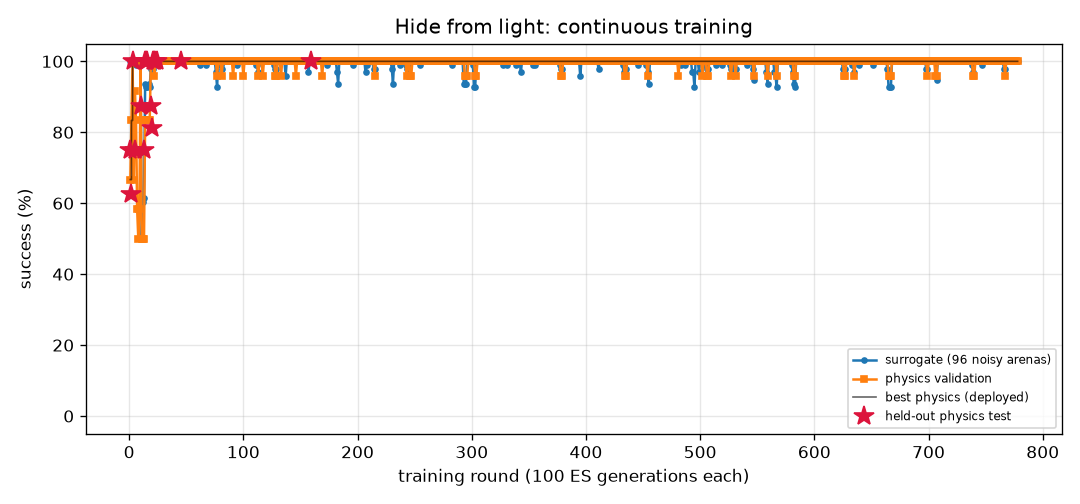
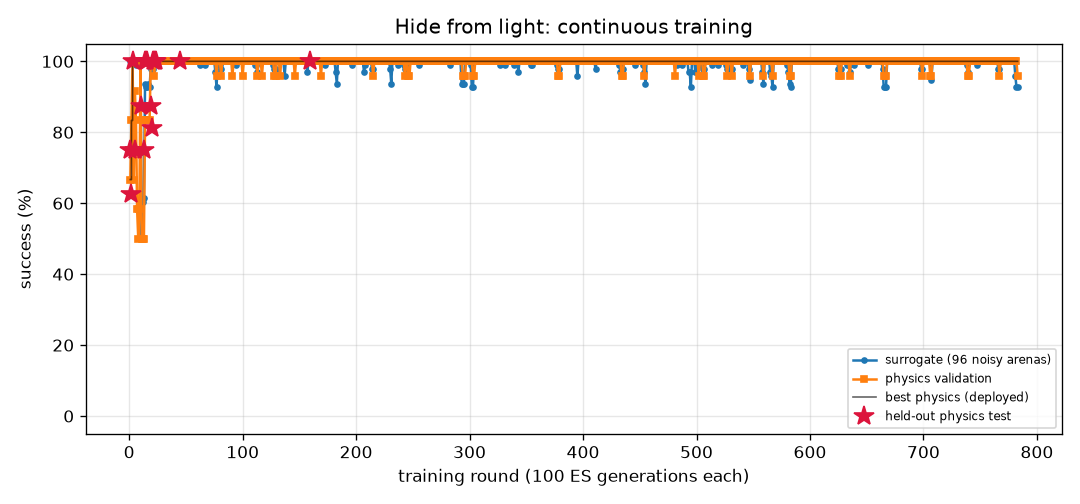
FlyLab: continuous training progress
- walk_forward: optimal, physics val 100% of 24, round 479
- turn: optimal, physics val 100% of 24, round 1252
- goto: optimal, physics val 100% of 24, round 372
- odor_seek: optimal, physics val 100% of 24, round 298
- odor_avoid: optimal, physics val 100% of 24, round 1067
- light_seek: optimal, physics val 100% of 24, round 575
- light_avoid: optimal, physics val 100% of 24, round 783

diff --git a/projects/09_flylab/training/light_avoid/REPORT.md b/projects/09_flylab/training/light_avoid/REPORT.md
@@ -1,14 +1,14 @@
 # Hide from light (`light_avoid`) — training report
 
-*Auto-generated by `train_brains.py`, last updated 2026-11-21T19:55:05.*
+*Auto-generated by `train_brains.py`, last updated 2026-11-21T20:36:26.*
 
 ![curve](curve.png)
 
 | | |
 |---|---|
-| rounds | 778 |
-| ES generations | 77800 |
-| physics runs | 18944 |
+| rounds | 783 |
+| ES generations | 78300 |
+| physics runs | 19064 |
 | status | **optimal** |
 | best brain | round 159: physics validation **100%** on 24 arenas, surrogate 100% |
 | held-out physics test | **100%** on 32 unseen arenas (95% CI 89%-100%) (errors: [14.4, 56.1, 58.0, 57.9, 57.5, 14.0, 14.4, 56.6, 56.8, 13.3, 14.1, 56.6, 57.6, 13.1, 57.3, 55.9, 57.2, 55.0, 55.2, 53.9, 55.2, 12.4, 53.8, 53.7, 14.1, 13.7, 55.0, 57.8, 56.2, 13.1, 52.8, 56.5]) |
@@ -17,11 +17,6 @@ Physics error per arena: mm gained away from source (> 6 without first approachi
 
 | round | level | gens | sigma | surrogate | physics val | val errors | test | note |
 |---:|---:|---:|---:|---:|---:|---|---:|---|
-| 739 | 3 | 73900 | 0.025 | 97% | 96% | [42.0, 40.6, 41.0, 42.4, 35.6, 41.8, 42.4, 14.5, 13.0, 13.4, 10.2, 34.5, 14.4, 7.9, 40.6, 42.4, 14.2, 37.0, 39.4, 14.4, 42.4, 11.3, 41.8, 34.2] |  | restart from best |
-| 740 | 3 | 74000 | 0.024 | 100% | 96% | [47.4, 49.8, 49.2, 48.2, 51.9, 47.9, 46.7, 14.5, 43.2, 13.3, 52.1, 51.9, 14.4, 51.2, 49.5, 47.7, 14.2, 52.0, 49.4, 14.4, 47.6, 51.9, 47.5, 51.7] |  |  |
-| 741 | 3 | 74100 | 0.024 | 100% | 100% | [51.5, 54.8, 54.4, 53.0, 56.8, 53.0, 52.4, 14.5, 53.4, 13.4, 56.6, 56.9, 14.4, 55.4, 54.2, 51.9, 14.2, 56.8, 55.0, 14.4, 54.2, 56.4, 52.9, 56.6] |  |  |
-| 742 | 3 | 74200 | 0.024 | 100% | 100% | [51.2, 53.1, 52.7, 52.7, 55.9, 51.5, 50.6, 14.5, 52.5, 13.5, 55.9, 55.8, 14.4, 54.7, 52.5, 51.1, 14.2, 55.8, 53.2, 14.4, 51.2, 55.8, 50.4, 55.8] |  |  |
-| 743 | 3 | 74300 | 0.024 | 100% | 100% | [46.5, 47.4, 47.2, 48.0, 51.2, 46.3, 44.8, 14.5, 48.9, 13.0, 49.4, 51.1, 14.4, 51.2, 46.7, 47.1, 14.2, 50.8, 47.3, 14.4, 44.9, 50.1, 45.1, 51.4] |  | restart from best |
 | 744 | 3 | 74400 | 0.024 | 100% | 100% | [43.0, 47.1, 45.6, 45.7, 47.8, 46.2, 43.9, 14.5, 46.7, 11.9, 48.7, 47.9, 14.4, 47.7, 47.1, 44.8, 14.2, 48.2, 46.0, 14.4, 45.9, 49.1, 44.5, 48.1] |  |  |
 | 745 | 3 | 74500 | 0.024 | 100% | 100% | [46.3, 47.8, 47.5, 48.1, 50.9, 47.2, 45.3, 14.5, 50.8, 13.2, 51.4, 51.1, 14.3, 50.4, 47.0, 47.0, 14.2, 51.0, 47.3, 14.4, 45.2, 51.2, 45.6, 51.3] |  |  |
 | 746 | 3 | 74600 | 0.024 | 100% | 100% | [57.5, 59.9, 59.8, 57.2, 57.6, 57.1, 58.8, 14.5, 46.0, 13.5, 57.1, 57.4, 14.3, 58.5, 59.8, 56.3, 14.2, 58.6, 59.6, 14.4, 57.4, 58.6, 58.5, 56.5] |  |  |
@@ -57,3 +52,8 @@ Physics error per arena: mm gained away from source (> 6 without first approachi
 | 776 | 3 | 77600 | 0.024 | 100% | 100% | [53.3, 57.9, 57.7, 55.6, 57.3, 54.7, 56.4, 14.5, 51.4, 13.5, 57.0, 57.1, 14.4, 55.4, 57.8, 53.4, 14.2, 57.7, 58.2, 14.4, 54.5, 57.2, 56.0, 56.5] |  |  |
 | 777 | 3 | 77700 | 0.024 | 100% | 100% | [58.2, 62.1, 61.9, 59.2, 60.8, 59.2, 60.9, 14.5, 56.8, 13.5, 60.9, 60.4, 14.4, 58.2, 62.1, 57.8, 14.2, 61.2, 62.3, 14.4, 59.4, 61.0, 60.7, 59.8] |  |  |
 | 778 | 3 | 77800 | 0.024 | 100% | 100% | [56.2, 61.4, 61.2, 57.1, 61.0, 57.9, 59.6, 14.5, 44.4, 13.3, 59.9, 60.8, 14.4, 58.1, 61.3, 58.4, 14.2, 61.5, 61.7, 14.4, 57.8, 60.1, 59.5, 60.2] |  |  |
+| 779 | 3 | 77900 | 0.024 | 100% | 100% | [54.8, 59.7, 59.4, 55.5, 60.5, 56.3, 58.1, 14.5, 54.8, 13.3, 59.5, 60.3, 14.4, 57.4, 59.5, 54.9, 14.2, 60.8, 60.0, 14.4, 56.9, 59.4, 57.6, 59.9] |  | restart from best |
+| 780 | 3 | 78000 | 0.024 | 100% | 100% | [44.4, 44.2, 41.3, 41.5, 46.4, 42.7, 39.3, 14.5, 43.6, 13.1, 45.4, 46.6, 14.4, 44.8, 43.1, 41.9, 14.2, 44.5, 41.4, 14.4, 40.2, 46.3, 40.9, 44.7] |  |  |
+| 781 | 3 | 78100 | 0.024 | 96% | 100% | [43.0, 53.0, 52.5, 42.9, 54.1, 49.6, 51.2, 14.5, 51.6, 13.6, 52.0, 54.2, 14.4, 53.4, 52.4, 8.9, 14.2, 54.2, 52.8, 14.4, 8.8, 52.9, 51.2, 53.9] |  |  |
+| 782 | 3 | 78200 | 0.026 | 93% | 100% | [6.3, 59.6, 59.4, 7.5, 59.9, 46.2, 57.9, 14.5, 57.0, 13.5, 56.8, 59.9, 14.4, 58.1, 59.5, 9.0, 14.2, 60.3, 59.8, 14.4, 8.7, 58.3, 57.5, 59.4] |  |  |
+| 783 | 3 | 78300 | 0.028 | 93% | 96% | [6.2, 59.7, 59.4, 7.3, 59.8, 4.4, 57.9, 14.5, 55.2, 13.3, 56.5, 59.7, 14.4, 58.3, 59.6, 9.0, 14.2, 60.2, 60.1, 14.4, 8.7, 57.1, 57.8, 59.1] |  | restart from best |

diff --git a/projects/09_flylab/training/light_seek/REPORT.md b/projects/09_flylab/training/light_seek/REPORT.md
@@ -1,14 +1,14 @@
 # Walk toward light (`light_seek`) — training report
 
-*Auto-generated by `train_brains.py`, last updated 2026-11-21T17:23:36.*
+*Auto-generated by `train_brains.py`, last updated 2026-11-21T20:50:30.*
 
 ![curve](curve.png)
 
 | | |
 |---|---|
-| rounds | 571 |
-| ES generations | 57100 |
-| physics runs | 10584 |
+| rounds | 575 |
+| ES generations | 57500 |
+| physics runs | 10680 |
 | status | **optimal** |
 | best brain | round 375: physics validation **100%** on 24 arenas, surrogate 100% |
 | held-out physics test | **100%** on 32 unseen arenas (95% CI 89%-100%) (errors: [0.57, 0.54, 0.53, 0.57, 0.55, 0.56, 0.59, 0.56, 0.53, 0.56, 0.71, 0.56, 0.55, 0.54, 0.53, 0.54, 0.54, 0.55, 0.52, 0.65, 0.64, 0.7, 0.58, 0.57, 0.6, 0.62, 0.55, 0.88, 0.54, 0.52, 0.62, 0.57]) |
@@ -17,10 +17,6 @@ Physics error per arena: mm from target at the end (< 1.5 and standing still = s
 
 | round | level | gens | sigma | surrogate | physics val | val errors | test | note |
 |---:|---:|---:|---:|---:|---:|---|---:|---|
-| 532 | 3 | 53200 | 0.024 | 100% | 92% | [1.72, 0.63, 0.6, 1.76, 0.56, 0.64, 0.78, 0.7, 0.59, 0.7, 0.75, 0.68, 0.71, 0.62, 0.7, 0.6, 0.58, 0.61, 0.6, 1.18, 0.64, 0.63, 0.62, 1.37] |  |  |
-| 533 | 3 | 53300 | 0.024 | 100% | 96% | [0.73, 0.71, 0.62, 1.16, 0.68, 0.81, 0.7, 0.81, 0.74, 0.86, 0.74, 0.64, 0.86, 0.68, 1.21, 0.6, 0.65, 0.95, 0.62, 0.97, 1.5, 1.38, 1.14, 0.57] |  |  |
-| 534 | 3 | 53400 | 0.024 | 100% | 96% | [0.73, 0.73, 1.69, 0.73, 0.75, 0.66, 0.7, 0.7, 0.68, 0.82, 0.55, 0.61, 0.75, 0.67, 0.75, 0.66, 0.8, 0.72, 0.72, 0.62, 0.66, 0.67, 0.7, 0.73] |  |  |
-| 535 | 3 | 53500 | 0.024 | 100% | 100% | [0.62, 0.66, 0.63, 0.68, 0.67, 0.61, 0.69, 0.63, 0.58, 0.65, 0.8, 0.64, 0.78, 0.72, 0.78, 0.74, 0.7, 0.59, 0.57, 0.63, 0.53, 0.8, 0.64, 0.63] |  | restart from best |
 | 536 | 3 | 53600 | 0.024 | 100% | 100% | [0.57, 0.53, 0.62, 0.51, 0.54, 0.83, 0.64, 0.81, 0.51, 0.51, 0.59, 0.66, 0.55, 0.61, 0.53, 0.56, 0.52, 0.65, 0.59, 0.82, 0.68, 0.63, 0.84, 0.82] |  |  |
 | 537 | 3 | 53700 | 0.024 | 100% | 88% | [0.58, 0.68, 0.98, 0.58, 0.64, 0.61, 0.74, 1.61, 1.1, 0.61, 1.48, 0.7, 0.58, 1.16, 1.01, 0.6, 0.62, 0.63, 0.59, 0.72, 0.76, 1.59, 0.76, 1.33] |  |  |
 | 538 | 3 | 53800 | 0.024 | 100% | 100% | [0.51, 0.62, 0.54, 0.61, 0.56, 0.55, 0.5, 0.53, 0.56, 0.55, 0.56, 0.56, 0.53, 0.56, 0.79, 0.58, 0.64, 0.56, 0.6, 0.63, 0.74, 0.52, 0.63, 0.69] |  |  |
@@ -57,3 +53,7 @@ Physics error per arena: mm from target at the end (< 1.5 and standing still = s
 | 569 | 3 | 56900 | 0.024 | 100% | 100% | [0.7, 0.63, 0.64, 0.59, 0.71, 0.6, 0.76, 0.65, 0.58, 0.77, 0.63, 0.67, 0.61, 0.63, 0.59, 0.8, 0.63, 0.6, 0.62, 0.61, 0.66, 0.69, 0.6, 0.66] |  |  |
 | 570 | 3 | 57000 | 0.024 | 100% | 100% | [0.72, 0.65, 0.61, 0.58, 0.55, 0.6, 0.67, 0.55, 0.58, 0.68, 0.65, 0.64, 0.59, 0.63, 0.69, 0.67, 0.55, 0.73, 0.59, 0.54, 0.69, 0.6, 0.54, 0.57] |  |  |
 | 571 | 3 | 57100 | 0.024 | 100% | 100% | [0.6, 0.55, 0.63, 0.63, 0.53, 0.57, 0.59, 0.51, 0.6, 0.51, 0.93, 0.6, 0.56, 0.97, 0.55, 0.59, 0.62, 0.59, 0.58, 0.55, 0.65, 0.59, 0.58, 0.62] |  | restart from best |
+| 572 | 3 | 57200 | 0.024 | 100% | 100% | [0.58, 0.59, 0.59, 0.62, 0.58, 0.6, 0.59, 0.6, 0.59, 0.6, 0.58, 0.65, 0.59, 0.61, 0.67, 0.61, 0.6, 0.61, 0.6, 0.59, 0.61, 0.62, 0.6, 0.62] |  |  |
+| 573 | 3 | 57300 | 0.024 | 100% | 100% | [0.57, 0.63, 0.51, 0.49, 0.5, 0.53, 0.58, 0.61, 0.54, 0.53, 1.08, 0.52, 0.55, 1.01, 0.6, 0.51, 0.46, 1.06, 0.46, 0.59, 0.61, 0.57, 0.48, 0.52] |  |  |
+| 574 | 3 | 57400 | 0.024 | 100% | 100% | [0.61, 0.6, 0.62, 0.79, 0.6, 0.68, 0.6, 0.65, 0.7, 0.63, 0.61, 0.58, 0.65, 0.59, 0.6, 0.58, 0.59, 0.64, 0.59, 0.64, 0.62, 0.71, 0.67, 0.67] |  |  |
+| 575 | 3 | 57500 | 0.024 | 100% | 100% | [0.72, 0.61, 0.53, 0.57, 0.56, 0.53, 0.51, 0.8, 0.54, 0.7, 0.67, 0.73, 0.51, 0.68, 0.55, 0.65, 0.53, 0.53, 0.64, 0.5, 0.63, 0.71, 0.58, 0.63] |  | restart from best |

diff --git a/projects/09_flylab/training/goto/REPORT.md b/projects/09_flylab/training/goto/REPORT.md
@@ -1,14 +1,14 @@
 # Go to a location (`goto`) — training report
 
-*Auto-generated by `train_brains.py`, last updated 2026-11-21T17:37:34.*
+*Auto-generated by `train_brains.py`, last updated 2026-11-21T20:51:29.*
 
 ![curve](curve.png)
 
 | | |
 |---|---|
-| rounds | 371 |
-| ES generations | 37100 |
-| physics runs | 8854 |
+| rounds | 372 |
+| ES generations | 37200 |
+| physics runs | 8878 |
 | status | **optimal** |
 | best brain | round 176: physics validation **100%** on 24 arenas, surrogate 100% |
 | held-out physics test | **100%** on 32 unseen arenas (95% CI 89%-100%) (errors: [0.2, 0.32, 0.19, 0.24, 0.18, 0.2, 0.19, 0.17, 0.22, 0.23, 0.23, 0.26, 0.2, 0.19, 0.24, 0.23, 0.22, 0.24, 0.2, 0.22, 0.2, 0.2, 0.26, 0.19, 0.22, 0.18, 0.26, 0.22, 0.2, 0.26, 0.23, 0.23]) |
@@ -17,7 +17,6 @@ Physics error per arena: mm from target at the end (< 1.5 and standing still = s
 
 | round | level | gens | sigma | surrogate | physics val | val errors | test | note |
 |---:|---:|---:|---:|---:|---:|---|---:|---|
-| 332 | 3 | 33200 | 0.025 | 99% | 100% | [0.67, 0.63, 0.57, 0.61, 0.53, 0.56, 0.67, 0.59, 0.63, 0.55, 0.54, 0.59, 0.68, 0.5, 0.61, 0.62, 0.71, 0.58, 0.56, 0.68, 0.59, 0.62, 0.68, 0.61] |  | restart from best |
 | 333 | 3 | 33300 | 0.024 | 100% | 100% | [0.46, 0.45, 0.4, 0.45, 0.36, 0.42, 0.43, 0.43, 0.45, 0.37, 0.36, 0.43, 0.45, 0.4, 0.38, 0.44, 0.46, 0.43, 0.36, 0.46, 0.42, 0.38, 0.47, 0.44] |  |  |
 | 334 | 3 | 33400 | 0.024 | 99% | 100% | [0.38, 0.4, 0.28, 0.29, 0.33, 0.27, 0.4, 0.31, 0.34, 0.3, 0.28, 0.31, 0.38, 0.3, 0.33, 0.37, 0.4, 0.3, 0.29, 0.35, 0.34, 0.32, 0.39, 0.29] |  |  |
 | 335 | 3 | 33500 | 0.025 | 99% | 100% | [0.42, 0.43, 0.29, 0.32, 0.34, 0.31, 0.41, 0.38, 0.37, 0.31, 0.3, 0.33, 0.4, 0.34, 0.39, 0.39, 0.44, 0.34, 0.3, 0.37, 0.37, 0.31, 0.42, 0.31] |  |  |
@@ -57,3 +56,4 @@ Physics error per arena: mm from target at the end (< 1.5 and standing still = s
 | 369 | 3 | 36900 | 0.024 | 99% | 100% | [0.53, 0.52, 0.53, 0.45, 0.39, 0.4, 0.48, 0.49, 0.51, 0.41, 0.39, 0.44, 0.53, 0.42, 0.5, 0.48, 0.55, 0.44, 0.38, 0.5, 0.44, 0.43, 0.55, 0.44] |  |  |
 | 370 | 3 | 37000 | 0.025 | 99% | 100% | [0.52, 0.44, 0.45, 0.44, 0.36, 0.4, 0.46, 0.42, 0.48, 0.38, 0.37, 0.42, 0.5, 0.33, 0.47, 0.4, 0.54, 0.42, 0.4, 0.52, 0.37, 0.45, 0.5, 0.42] |  |  |
 | 371 | 3 | 37100 | 0.025 | 99% | 100% | [0.55, 0.45, 0.46, 0.4, 0.35, 0.37, 0.48, 0.37, 0.44, 0.37, 0.36, 0.4, 0.5, 0.32, 0.46, 0.37, 0.51, 0.41, 0.36, 0.43, 0.36, 0.37, 0.48, 0.39] |  |  |
+| 372 | 3 | 37200 | 0.025 | 100% | 100% | [0.53, 0.5, 0.51, 0.44, 0.38, 0.4, 0.54, 0.45, 0.5, 0.39, 0.38, 0.43, 0.49, 0.39, 0.49, 0.46, 0.57, 0.4, 0.37, 0.45, 0.42, 0.41, 0.54, 0.41] |  | restart from best |

diff --git a/projects/09_flylab/training/TRAINING.md b/projects/09_flylab/training/TRAINING.md
@@ -1,6 +1,6 @@
 # FlyLab brains — continuous training log
 
-*Auto-generated by `train_brains.py`, last updated 2026-11-21T19:55:05.*
+*Auto-generated by `train_brains.py`, last updated 2026-11-21T20:51:29.*
 
 Every skill has its own brain and its own training process: surrogate ES rounds, physics validation in MuJoCo, keep-the-best selection, and a held-out physics test that is never used for selection. See each skill's report for its full round-by-round history. Mastery is progressive: passing a level (100% physics validation, >=95% surrogate) doubles the validation and test arena sets; a brain is **optimal** once it holds up at level 3 (>=95% of 24 validation arenas) AND scores >=90% on the 32 held-out test arenas. Test columns show 95% Wilson confidence intervals.
 
@@ -8,8 +8,8 @@ Every skill has its own brain and its own training process: surrogate ES rounds,
 |---|---:|---:|---:|---:|---:|---:|---|
 | [Walk forward](walk_forward/REPORT.md) | 479 | 47900 | 11542 | 99% | 100% of 24 | 100% of 32 (CI 89-100%) | **optimal** |
 | [Turn in place](turn/REPORT.md) | 1252 | 125200 | 30294 | 100% | 100% of 24 | 97% of 32 (CI 84-99%) | **optimal** |
-| [Go to a location](goto/REPORT.md) | 371 | 37100 | 8854 | 100% | 100% of 24 | 100% of 32 (CI 89-100%) | **optimal** |
+| [Go to a location](goto/REPORT.md) | 372 | 37200 | 8878 | 100% | 100% of 24 | 100% of 32 (CI 89-100%) | **optimal** |
 | [Find food by smell](odor_seek/REPORT.md) | 298 | 29800 | 6646 | 100% | 100% of 24 | 100% of 32 (CI 89-100%) | **optimal** |
 | [Escape a bad smell](odor_avoid/REPORT.md) | 1067 | 106700 | 22914 | 97% | 100% of 24 | 97% of 32 (CI 84-99%) | **optimal** |
-| [Walk toward light](light_seek/REPORT.md) | 571 | 57100 | 10584 | 100% | 100% of 24 | 100% of 32 (CI 89-100%) | **optimal** |
-| [Hide from light](light_avoid/REPORT.md) | 778 | 77800 | 18944 | 100% | 100% of 24 | 100% of 32 (CI 89-100%) | **optimal** |
+| [Walk toward light](light_seek/REPORT.md) | 575 | 57500 | 10680 | 100% | 100% of 24 | 100% of 32 (CI 89-100%) | **optimal** |
+| [Hide from light](light_avoid/REPORT.md) | 783 | 78300 | 19064 | 100% | 100% of 24 | 100% of 32 (CI 89-100%) | **optimal** |
